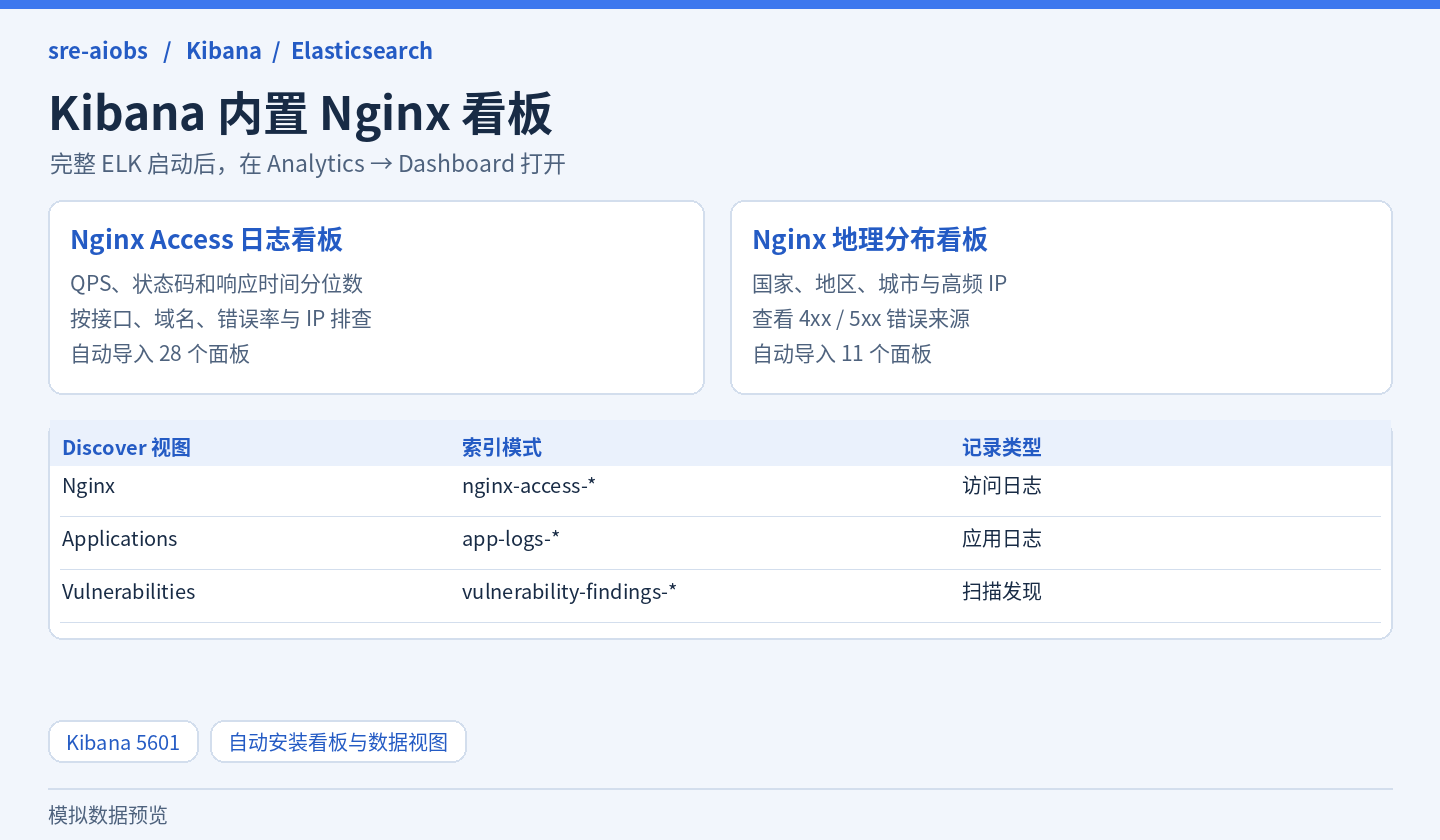
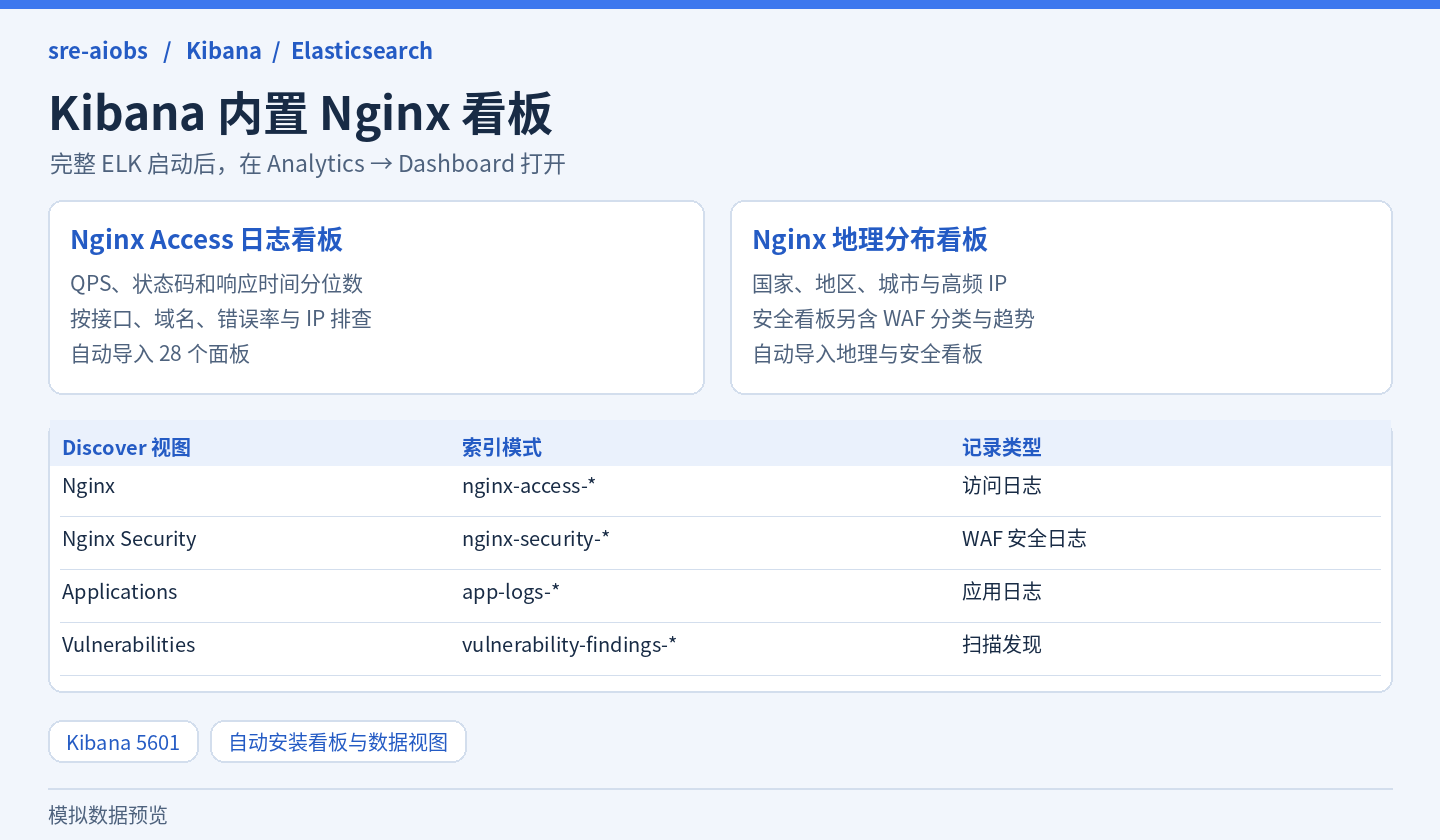
补齐四类 ELK 索引与 Nginx 安全巡检看板
新增 WAF 安全索引模板、预置只读查询来源与独立采集写入角色。Kibana 自动导入安全数据视图和七个面板，独立展示拦截、分类、IP 与地区。

补充字段类型、写入方式与权限说明，更新部署和预览图。校验模板、默认来源、Kibana 引用和模拟初始化。

diff --git a/deploy/elk/dashboards/generate.py b/deploy/elk/dashboards/generate.py
@@ -57,7 +57,8 @@ def qps_spec():
 
 
 class Dashboard:
-    def __init__(self, slug, title, query=""):
+    def __init__(self, slug, title, query="", data_view=DATA_VIEW):
+        self.data_view = data_view
         self.id = f"sre-aiobs-nginx-{slug}"
         self.title = title
         self.query = query
@@ -93,7 +94,7 @@ class Dashboard:
         if kind != "vega":
             reference = "kibanaSavedObjectMeta.searchSourceJSON.index"
             source["indexRefName"] = reference
-            references.append({"name": reference, "type": "index-pattern", "id": DATA_VIEW})
+            references.append({"name": reference, "type": "index-pattern", "id": self.data_view})
         vis_state = {"title": title, "type": kind, "params": params, "aggs": [
             dict(agg, id=str(i), enabled=True) for i, agg in enumerate(aggs, 1)
         ]}
@@ -175,6 +176,17 @@ def main():
     geo.panel("ip-country", "高频 IP × 来源国家", "table", (*status_counts, terms("client_ip", 20), terms(country, 5)), width=48)
     geo.panel("region-status", "状态码 × 来源地区", "table", (*status_counts, terms(region, 20)), width=48)
     geo.write()
+
+    security = Dashboard("security", "Nginx 安全巡检日志看板", data_view="sre-aiobs-nginx-security")
+    security.panel("total", "安全日志总数", "metric", (count,))
+    security.panel("blocks", "WAF 拦截日志数", "metric", (count,), 'waf_action:("block" OR "blocked" OR "deny" OR "denied" OR "drop" OR "dropped" OR "reject" OR "rejected")')
+    security.panel("trend", "安全日志趋势", "line", (count, histogram()), width=48)
+    security.panel("actions", "WAF 动作分布", "table", (count, terms("waf_action", 10)))
+    security.panel("categories", "WAF 安全分类", "table", (count, terms("waf_category", 20)))
+    security.panel("ips", "客户端 IP 排行", "table", (count, terms("client_ip", 20)))
+    security.panel("regions", "客户端地区排行", "table", (count, terms("client_geo.region_iso_code", 20)))
+    security.write()
+
 
 
 if __name__ == "__main__":

diff --git a/docs/elasticsearch-indexes.md b/docs/elasticsearch-indexes.md
@@ -1,0 +1,44 @@
+# Elasticsearch 索引与安全巡检
+
+完整 ELK 启动时会安装下列四类索引模板、只读角色与 Kibana Data View。新索引第一次收到数据时使用对应模板。单机模板使用一个主分片、零副本；生产集群应按容量和可用性调整模板。现有索引的类型映射和历史数据需要按原环境的迁移流程处理。
+
+| 索引模式 | 索引名示例 | 写入方 | Kibana Data View | 巡检用途 |
+| --- | --- | --- | --- | --- |
+| `nginx-access-*` | `nginx-access-2026.11.27` | 本机 Filebeat → Logstash，或批量 Filebeat 经 HTTPS 网关 | Nginx | 请求量、QPS、状态码、接口延迟、GeoIP、IP 和 URI 风险检测 |
+| `nginx-security-*` | `nginx-security-2026.11.27` | 已有 WAF 或安全日志采集器 | Nginx Security | WAF 拦截、安全分类和客户端来源；运维看板汇总规则命中 |
+| `app-logs-*` | `app-logs-orders-2026.11.27` | 应用日志采集链路 | Applications | 严重错误、WARN 激增、异常类型、依赖故障、业务错误码 |
+| `vulnerability-findings-*` | `vulnerability-findings-2026.11.27` | 可信扫描器或 CI 发布任务 | Vulnerabilities | 聚合 CVE，生成小时报告和日报 |
+
+日期后缀是示例，匹配同一个索引模式即可。所有来源使用 `@timestamp`（类型 `date`）；写入时提供带时区的事件时间。完整映射见 [Nginx 访问模板](../deploy/elasticsearch/nginx-index-template.json)、[安全日志模板](../deploy/elasticsearch/security-index-template.json)、[应用模板](../deploy/elasticsearch/application-index-template.json)、[漏洞模板](../deploy/elasticsearch/vulnerability-index-template.json)。
+
+## Nginx 访问和安全字段
+
+| 字段 | 类型 | 用途 |
+| --- | --- | --- |
+| `client_ip` | `ip` | 客户端 IP 聚合。经过代理时，应由可信链路生成真实客户端地址 |
+| `request_uri`、`request_path` | `keyword` | 源端巡检使用 URI，Kibana 按不含查询串的路径展示接口 |
+| `nginx_host`、`user_agent`、`method` | `keyword` | Host、User-Agent、HTTP 方法分析 |
+| `status`、`upstream_status` | `integer`、`keyword` | HTTP 状态与上游故障 |
+| `request_time`、`body_bytes_sent` | `double`、`long` | 延迟以秒为单位，响应体大小以字节为单位 |
+| `tls_protocol` | `keyword` | TLS 版本巡检 |
+| `client_geo.country_iso_code`、`client_geo.region_iso_code`、`client_geo.country_name`、`client_geo.city_name` | `keyword` | 国家、地区和城市，来自 GeoIP 管道或可信来源 |
+| `log_hostname`、`collector_hostname`、`service` | `keyword` | 日志主机、采集机、业务服务 |
+| `error_rate_sample`、`status_4xx_sample`、`status_5xx_sample` | `short` | 由管道生成的错误统计辅助字段 |
+| `waf_action`、`waf_category`、`waf_rule_id` | `keyword` | 安全动作、归一化分类、原 WAF 规则标识。前两项参与规则巡检 |
+
+安全日志可以只含时间、真实客户端 IP、动作和分类。下面是字段映射样例，供采集器对齐格式：
+
+```json
+{"@timestamp":"2026-11-27T03:00:00Z","client_ip":"192.0.2.24","service":"orders","waf_action":"blocked","waf_category":"upload_abuse","waf_rule_id":"example-rule"}
+```
+
+在已有部署的 `config.yaml` 加入 [安全来源示例](../config.example.yaml)。内置 ELK 首次生成的配置已包含该来源。WAF 采集器应使用单独凭据，由管理员分配 `sre_aiobs_security_ingest` 角色或等价的受限 API Key，以 `create` 方式写入。部署脚本不会给默认 Nginx Filebeat 账号增加安全索引写权限。若动作和分类已写在访问日志里，也可以在访问源映射 `waf: waf_action` 和 `wafrule: waf_category`。同一记录只选择一条巡检来源，避免重复计数。
+
+在 Kibana **Analytics → Dashboard** 打开「Nginx 安全巡检日志看板」，查看拦截数、分类、IP 和地区；在运维看板 **Nginx 安全巡检** 按来源筛选告警。Elasticsearch 保存输入日志；应用生成的风险事件、任务和巡检报告存放在 PostgreSQL，可通过看板按 Run ID 查看。
+
+## 应用日志和漏洞字段
+
+- **应用日志**使用 `service`、`level`、`exception_type`、`dependency_failure`、`business_error_code`（均为 `keyword`）。只在发生失败时上报依赖和业务错误分类；避免把自由文本、凭据或请求正文当作分类值。
+- **漏洞发现**使用 `vulnerability_id`、`severity`、`service`（均为 `keyword`）。每条记录包含一个 CVE，并保留实际扫描时间。
+
+应用读取账号的权限范围覆盖上述四类索引，使用 `read`、`view_index_metadata`。各写入方按自身的目标索引单独授权。Kibana 用户权限也应只覆盖其需要查看的视图和索引。

diff --git a/docs/deployment.md b/docs/deployment.md
@@ -4,6 +4,8 @@
 
 ## 日志源
 
+[四类索引及安全巡检字段](elasticsearch-indexes.md)列出索引命名、字段类型、采集链路和权限。
+
 每条 `sources` 配置的 `name` 必须唯一，独立标识逻辑数据源。相同集群可配置多个来源，通过 `index` 隔离不同环境。一个 Elasticsearch 来源可指定索引别名、通配符或逗号分隔表达式。相同字段在表达式匹配的索引中应具备兼容映射。时间使用日期字段，字符串维度使用可聚合的 keyword 或 IP 字段，响应时延使用秒为单位的数值。可按业务拆分高基数数据源以限制查询资源。
 
 由 Elasticsearch 管理员在批准后创建 API key，角色仅授权指定索引的 `read`，例如：
@@ -190,6 +192,7 @@ NGINX_LOG_DIR=/var/log/nginx NGINX_LOG_GLOB=sre-aiobs.jsonl ./deploy/single-node
 | 索引模式 | 数据入口 | 探测与查询 |
 | --- | --- | --- |
 | `nginx-access-*` | 本机或批量 Filebeat，按日志 UTC 日期路由 | Nginx 风险接口、状态码、时延、请求量、客户端 IP 和 GeoIP |
+| `nginx-security-*` | WAF 或安全日志采集器，单独授权 | 拦截动作、规则分类和地理来源 |
 | `app-logs-*` | 现有应用日志采集链路，使用独立写入凭据 | 按日志级别、异常类别和下游故障巡检 |
 | `vulnerability-findings-*` | 已有扫描结果发布流程，使用独立写入凭据 | CVE 聚合、小时报告与日报 |
 
@@ -225,6 +228,6 @@ NGINX_LOG_DIR=/var/log/nginx NGINX_LOG_GLOB=sre-aiobs.jsonl \
 
 本机采集链路为 **Nginx JSON 日志 → Filebeat → Logstash → Elasticsearch**。Logstash 使用持久化队列，默认容量 512 MB，且只拥有 Nginx 索引写入权限。Beats 端口 5044 仅在 Compose 网络内可达。已有的 Ansible 批量采集仍可通过 `--with-ingest-gateway` 启用的内网 HTTPS 网关写入 Elasticsearch。
 
-Kibana 默认绑定 `127.0.0.1:5601`。初次登录使用 `elastic` 和 `.env` 中的 `ELASTIC_PASSWORD`。日常使用请创建受限的个人账号。Kibana 服务内部使用独立的 `kibana_system` 密码，密钥保存在 `.env`，重启时复用。启动后可在 Discover 选择 Nginx、Applications 或 Vulnerabilities 三个预建 Data View。Nginx Data View 沿用两份附件中的 ID。启动时会自动导入 [Nginx Access 日志看板](../deploy/elk/dashboards/sre-aiobs-nginx-access.ndjson) 和 [Nginx 地理分布看板](../deploy/elk/dashboards/sre-aiobs-nginx-geo.ndjson)。登录后在 **Analytics → Dashboard** 打开。再次启动时保留已经安装的同 ID 看板。已有 Kibana 8.17 环境也可在 **Stack Management → Saved Objects → Import** 导入这两个 NDJSON，先确保 Nginx Data View ID 为 `bc589ecf-5117-40ca-b632-cb021652f611` 并指向 `nginx-access-*`。已安装的 Kibana 面板若需要更新，可显式导入仓库中的 NDJSON。
+Kibana 默认绑定 `127.0.0.1:5601`。初次登录使用 `elastic` 和 `.env` 中的 `ELASTIC_PASSWORD`。日常使用请创建受限的个人账号。Kibana 服务内部使用独立的 `kibana_system` 密码，密钥保存在 `.env`，重启时复用。启动后可在 Discover 选择 Nginx、Nginx Security、Applications 或 Vulnerabilities 四个预建 Data View。Nginx Data View 沿用附件中的 ID。启动时会自动导入 [Nginx Access 日志看板](../deploy/elk/dashboards/sre-aiobs-nginx-access.ndjson) 、[Nginx 地理分布看板](../deploy/elk/dashboards/sre-aiobs-nginx-geo.ndjson) 和 [Nginx 安全巡检日志看板](../deploy/elk/dashboards/sre-aiobs-nginx-security.ndjson)。登录后在 **Analytics → Dashboard** 打开。再次启动时保留已经安装的同 ID 看板。已有 Kibana 8.17 环境也可在 **Stack Management → Saved Objects → Import** 导入对应的 NDJSON，导入访问与地理看板前，确认 Nginx Data View ID 为 `bc589ecf-5117-40ca-b632-cb021652f611` 并指向 `nginx-access-*`。安全看板使用 `sre-aiobs-nginx-security` Data View，指向 `nginx-security-*`。已安装的 Kibana 面板若需要更新，可显式导入仓库中的 NDJSON。
 
 首次启动需拉取 Elastic 官方镜像。可用 `COMPOSE_WAIT_TIMEOUT=480` 延长服务就绪等待。若单机上已经有 `config.yaml`，脚本会保留它，按前文合并本地 Elasticsearch 数据源即可。

diff --git a/README.md b/README.md
@@ -32,7 +32,7 @@ NGINX_LOG_DIR=/var/log/nginx NGINX_LOG_GLOB=sre-aiobs.jsonl \
 | 运维看板 | `http://127.0.0.1:8080` | `operator`，密码见 `.env` 的 `DASHBOARD_PASSWORD` |
 | Kibana | `http://127.0.0.1:5601` | 初始账号 `elastic`，密码见 `.env` 的 `ELASTIC_PASSWORD` |
 
-Kibana 在首次启动时导入 Nginx Access 和地理分布看板。已有 Elasticsearch 时，可通过 [部署手册](docs/deployment.md#日志源) 配置只读账号和索引。多机采集通过 [Ansible 与内网 HTTPS 网关](docs/deployment.md#elasticsearch-与-nginx-批量采集) 接入。已有配置升级请先检查 [迁移步骤](docs/update-and-configuration.md#部署升级)。
+Kibana 在首次启动时导入 Nginx Access、地理分布和安全巡检看板。已有 Elasticsearch 时，可通过 [部署手册](docs/deployment.md#日志源) 配置只读账号和索引。多机采集通过 [Ansible 与内网 HTTPS 网关](docs/deployment.md#elasticsearch-与-nginx-批量采集) 接入。已有配置升级请先检查 [迁移步骤](docs/update-and-configuration.md#部署升级)。
 
 ## 巡检与报告
 
@@ -41,7 +41,7 @@ Kibana 在首次启动时导入 Nginx Access 和地理分布看板。已有 Elas
 - **接口性能**在 Kibana 查看 QPS、P50／P90／P95／P99 和错误率。运维报告也展示有样本的窗口延迟。
 - **历史报告与通知**提供 HTML、JSON、Markdown 导出，以及 Telegram、Slack 和 AWS SES。双重验证和 OpenAI／Claude 可按需启用。
 
-[巡检 API 与迁移详情](docs/inspection-integration.md) · [安全审查](docs/security-review.md)
+[四类索引与安全巡检](docs/elasticsearch-indexes.md) · [巡检 API 与迁移详情](docs/inspection-integration.md) · [安全审查](docs/security-review.md)
 
 ## 验证
 

diff --git a/docs/quickstart.md b/docs/quickstart.md
@@ -48,7 +48,7 @@ ssh -N -L 8080:127.0.0.1:8080 \
   -L 5601:127.0.0.1:5601 user@server
 ```
 
-Kibana 启动时会安装两份 Nginx 看板，在 **Analytics → Dashboard** 打开「Nginx Access 日志看板」和「Nginx 地理分布看板」。看板已安装但暂无数据时，先在 Kibana **Discover → Nginx** 选择覆盖日志时间的范围，确认有记录。再到运维看板 **日志数据源 → 检查** 核对最近一分钟计数，在 Kibana 的 **Nginx Access 日志看板**看 QPS 与 P50／P90／P95／P99，在 **Nginx 地理分布看板**看国家、城市和 IP。地区指标需要可用的 GeoIP 数据与正确的客户端 IP。
+Kibana 启动时会安装三份 Nginx 看板，在 **Analytics → Dashboard** 打开「Nginx Access 日志看板」、「Nginx 地理分布看板」和「Nginx 安全巡检日志看板」。看板已安装但暂无数据时，先在 Kibana **Discover → Nginx** 选择覆盖日志时间的范围，确认有记录。再到运维看板 **日志数据源 → 检查** 核对最近一分钟计数，在 Kibana 的 **Nginx Access 日志看板**看 QPS 与 P50／P90／P95／P99，在 **Nginx 地理分布看板**看国家、城市和 IP。地区指标需要可用的 GeoIP 数据与正确的客户端 IP。
 
 如果页面打不开，在部署机运行 `curl -fsS http://127.0.0.1:8080/readyz` 并核对启动命令输出的容器状态。如果 Kibana 能打开但没有日志，先核对挂载目录、文件名及 JSON 格式，再检查 Discover 的时间范围。
 

diff --git a/docs/preview/README.md b/docs/preview/README.md
@@ -10,7 +10,7 @@
 
 ## Kibana 看板
 
-完整 ELK 首次启动后，在 **Analytics → Dashboard** 打开内置的 Nginx Access 和地理分布看板。Discover 中可按 `collector_hostname` 筛选远程采集机。
+完整 ELK 首次启动后，在 **Analytics → Dashboard** 打开内置的 Nginx Access、地理分布和安全巡检看板。Discover 中可按 `collector_hostname` 筛选远程采集机。
 
 ![Kibana 看板和数据视图](images/kibana-dashboards.png)
 
@@ -23,8 +23,11 @@
 | Data View | 索引模式 | 记录类型 |
 | --- | --- | --- |
 | Nginx | `nginx-access-*` | Nginx 访问日志 |
+| Nginx Security | `nginx-security-*` | WAF 安全日志 |
 | Applications | `app-logs-*` | 应用日志 |
 | Vulnerabilities | `vulnerability-findings-*` | 扫描发现记录 |
+
+[完整索引和安全巡检配置](../elasticsearch-indexes.md)
 
 ## 自动巡检与运维
 
